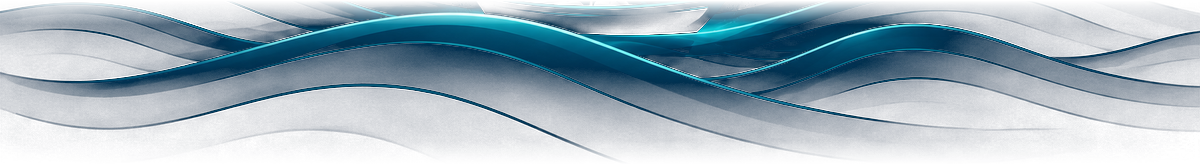
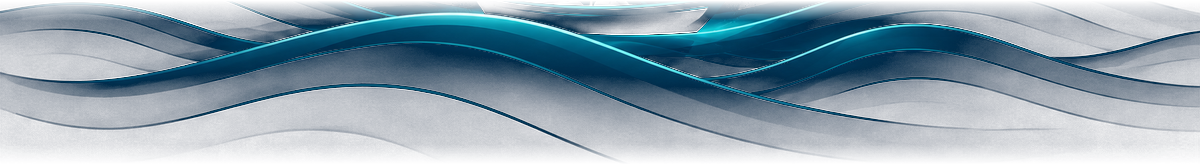
fix: refine intro layers and improve header compass visibility

diff --git a/css/style.css b/css/style.css
@@ -6189,3 +6189,100 @@ body{
     top:15% !important;
     width:13% !important;
 }
+
+
+/* ===========================================================================
+   CAB-075 · Continuous intro waves + mobile motion + compass visibility
+   =========================================================================== */
+
+/* Compass: intentionally visible, but remains secondary to header content. */
+.rw-header-compass{
+    width:54px !important;
+    opacity:.72 !important;
+    filter:drop-shadow(0 0 5px rgba(79,215,255,.42)) !important;
+}
+@keyframes rwCompassBreathe075{
+    0%,100%{transform:translateX(-50%) scale(.98);opacity:.62}
+    50%{transform:translateX(-50%) scale(1.025);opacity:.82}
+}
+.rw-header-compass{animation:rwCompassBreathe075 7s ease-in-out infinite !important;}
+
+/* Mobile motion calibration: duration + travel distance are both increased
+   so motion remains perceptible on a narrow portrait viewport. */
+@keyframes rwHeaderRearWaveMobile075{
+    from{transform:translate3d(-7%,0,0)}
+    to{transform:translate3d(7%,-1px,0)}
+}
+@keyframes rwHeaderFrontWaveMobile075{
+    from{transform:translate3d(8%,1px,0)}
+    to{transform:translate3d(-8%,-1px,0)}
+}
+@keyframes rwIntroRearMobile075{
+    from{transform:translate3d(-5.5%,0,0)}
+    to{transform:translate3d(5.5%,-1px,0)}
+}
+@keyframes rwIntroFrontMobile075{
+    from{transform:translate3d(6.5%,1px,0)}
+    to{transform:translate3d(-6.5%,-1px,0)}
+}
+@keyframes rwIntroBoatMobile075{
+    0%,100%{transform:translate3d(-50%,2px,0) rotate(-.45deg)}
+    50%{transform:translate3d(-50%,-5px,0) rotate(.45deg)}
+}
+@keyframes rwIntroGullsMobile075{
+    from{transform:translate3d(-7px,2px,0)}
+    to{transform:translate3d(14px,-5px,0)}
+}
+
+@media (max-width:640px){
+    .rw-header-rear-wave{
+        animation:rwHeaderRearWaveMobile075 4.8s ease-in-out infinite alternate !important;
+    }
+    .rw-header-front-wave{
+        animation:rwHeaderFrontWaveMobile075 3.3s ease-in-out infinite alternate !important;
+    }
+    .rw-header-compass{
+        width:46px !important;
+        opacity:.70 !important;
+        animation:rwCompassBreathe075 6.2s ease-in-out infinite !important;
+    }
+    .rw-intro-wave-rear{
+        animation:rwIntroRearMobile075 6.4s ease-in-out infinite alternate !important;
+    }
+    .rw-intro-wave-front{
+        animation:rwIntroFrontMobile075 4.4s ease-in-out infinite alternate !important;
+    }
+    .rw-intro-boat-koru{
+        animation:rwIntroBoatMobile075 5.2s ease-in-out infinite !important;
+    }
+    .rw-intro-seagulls{
+        animation:rwIntroGullsMobile075 5.8s ease-in-out infinite alternate !important;
+    }
+}
+
+/* RiverWatch intentionally keeps these decorative navigation animations active
+   on mobile. This comes after the CAB073 reduced-motion block to prevent the
+   device/browser preference from making the scene appear static. */
+@media (max-width:640px) and (prefers-reduced-motion:reduce){
+    .rw-header-rear-wave{
+        animation:rwHeaderRearWaveMobile075 4.8s ease-in-out infinite alternate !important;
+    }
+    .rw-header-front-wave{
+        animation:rwHeaderFrontWaveMobile075 3.3s ease-in-out infinite alternate !important;
+    }
+    .rw-header-compass{
+        animation:rwCompassBreathe075 6.2s ease-in-out infinite !important;
+    }
+    .rw-intro-wave-rear{
+        animation:rwIntroRearMobile075 6.4s ease-in-out infinite alternate !important;
+    }
+    .rw-intro-wave-front{
+        animation:rwIntroFrontMobile075 4.4s ease-in-out infinite alternate !important;
+    }
+    .rw-intro-boat-koru{
+        animation:rwIntroBoatMobile075 5.2s ease-in-out infinite !important;
+    }
+    .rw-intro-seagulls{
+        animation:rwIntroGullsMobile075 5.8s ease-in-out infinite alternate !important;
+    }
+}

diff --git a/index.html b/index.html
@@ -20,10 +20,10 @@
     <!-- Intro Screen · RiverWatch v1.0 / RV Koru -->
     <section id="intro" class="screen intro-screen koru-intro intro-animate">
         <div class="rw-intro-scene rw-intro-layered" aria-hidden="true">
-            <img class="rw-intro-layer rw-intro-wave-rear" src="icons/intro-wave-rear.png?v=cab074" alt="">
-            <img class="rw-intro-layer rw-intro-boat-koru" src="icons/intro-boat-koru.png?v=cab074" alt="">
-            <img class="rw-intro-layer rw-intro-wave-front" src="icons/intro-wave-front.png?v=cab074" alt="">
-            <img class="rw-intro-layer rw-intro-seagulls" src="icons/intro-seagulls.png?v=cab074" alt="">
+            <img class="rw-intro-layer rw-intro-wave-rear" src="icons/intro-wave-rear.png?v=cab075" alt="">
+            <img class="rw-intro-layer rw-intro-boat-koru" src="icons/intro-boat-koru.png?v=cab075" alt="">
+            <img class="rw-intro-layer rw-intro-wave-front" src="icons/intro-wave-front.png?v=cab075" alt="">
+            <img class="rw-intro-layer rw-intro-seagulls" src="icons/intro-seagulls.png?v=cab075" alt="">
         </div>
 
         <div class="intro-brand-lockup">
@@ -66,10 +66,10 @@
 
         <header class="topbar">
             <div class="rw-header-scene" aria-hidden="true">
-                <img class="rw-header-layer rw-header-rear-wave" src="icons/header-rear-wave.png?v=cab074" alt="">
-                <img class="rw-header-layer rw-header-boat" src="icons/header-boat.png?v=cab074" alt="">
-                <img class="rw-header-layer rw-header-front-wave" src="icons/header-front-wave.png?v=cab074" alt="">
-                <img class="rw-header-layer rw-header-compass" src="icons/header-compass.png?v=cab074" alt="">
+                <img class="rw-header-layer rw-header-rear-wave" src="icons/header-rear-wave.png?v=cab075" alt="">
+                <img class="rw-header-layer rw-header-boat" src="icons/header-boat.png?v=cab075" alt="">
+                <img class="rw-header-layer rw-header-front-wave" src="icons/header-front-wave.png?v=cab075" alt="">
+                <img class="rw-header-layer rw-header-compass" src="icons/header-compass.png?v=cab075" alt="">
             </div>
             <div class="brand-wrap koru-header-wrap">
                 <div class="koru-mark koru-mark-small" aria-label="Koru fern symbol"><img src="icons/koru-mark.svg" alt="" aria-hidden="true"></div>

diff --git a/service-worker.js b/service-worker.js
@@ -1,4 +1,4 @@
-const CACHE_NAME = "riverwatch-v1.0-pwa-cab074";
+const CACHE_NAME = "riverwatch-v1.0-pwa-cab075";
 const APP_SHELL = [
   "./",
   "./index.html",

diff --git a/CAB/CAB-075_CHANGELOG.md b/CAB/CAB-075_CHANGELOG.md
@@ -1,0 +1,16 @@
+# CAB-075 CHANGELOG
+
+SSoT: RiverWatch v1.0 CAB074(2)
+
+## Minimum-change corrections
+1. Rebuilt Rear Wave and Front Wave as continuous transparent wave assets.
+   - Removed all boat-shaped cutout/masking.
+2. Restored/strengthened mobile animation.
+   - Explicit mobile keyframes for header and intro.
+   - Increased horizontal travel distance as well as speed.
+   - Prevented mobile reduced-motion handling from making the RiverWatch decorative scene static.
+3. Improved header compass visibility.
+   - Increased size, opacity, and restrained cyan glow.
+4. Updated PWA cache and asset query version to CAB075.
+
+No Health, portfolio, data, navigation, or investment logic changes.
